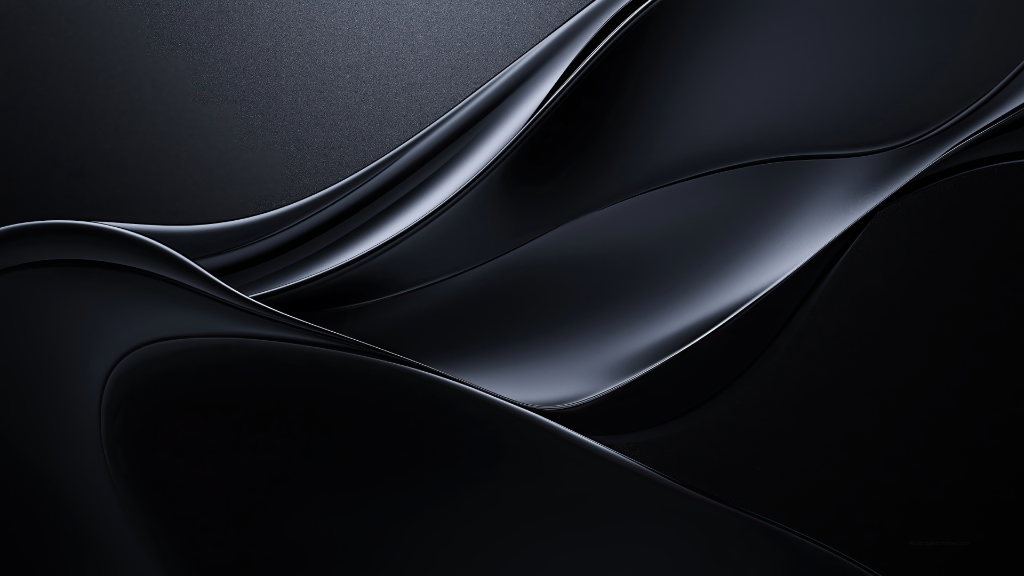
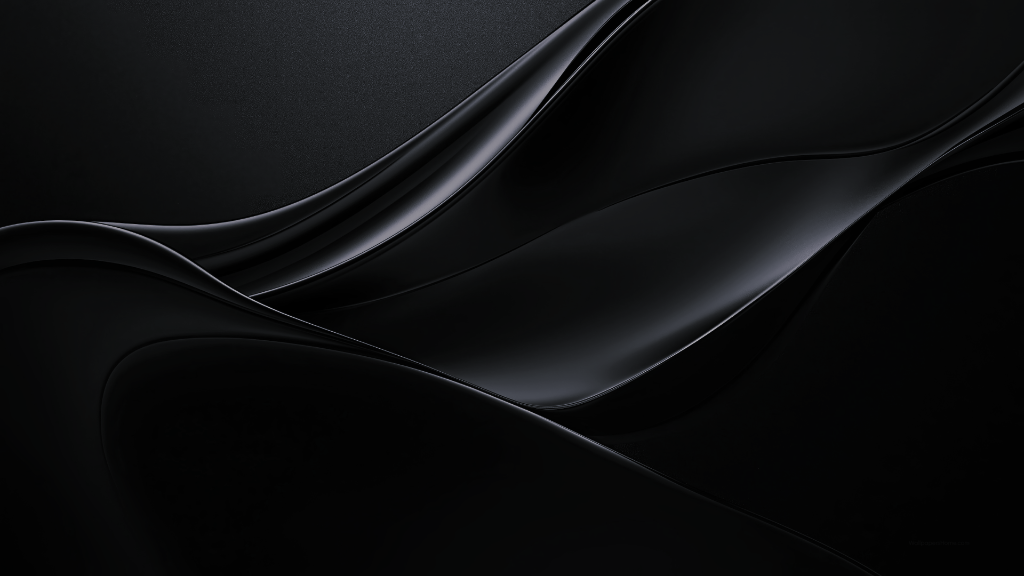
Add files via upload

diff --git a/style.css b/style.css
@@ -268,7 +268,7 @@ main.container {
 
 .movie-poster {
     width: 100%;
-    height: 380px;
+    height: 420px;
     background: transparent;
     display: flex;
     align-items: center;
@@ -413,23 +413,35 @@ main.container {
 }
 
 .movie-info {
-    padding: 30px;
-    background: transparent;
+    position: absolute;
+    bottom: 0;
+    left: 0;
+    width: 100%;
+    background: linear-gradient(to top, rgba(5, 5, 8, 0.92) 0%, rgba(5, 5, 8, 0.55) 65%, transparent 100%);
+    backdrop-filter: blur(14px) saturate(180%);
+    -webkit-backdrop-filter: blur(14px) saturate(180%);
+    border-top: 1px solid rgba(255, 255, 255, 0.08);
+    padding: 16px 20px;
+    z-index: 2;
 }
 
 .movie-title {
     font-family: var(--font-heading);
-    font-size: 1.5rem;
+    font-size: 1.3rem;
     color: #ffffff;
-    margin-bottom: 8px;
+    margin-bottom: 4px;
     font-weight: 600;
-    letter-spacing: -0.5px;
+    letter-spacing: -0.4px;
+    line-height: 1.25;
+    text-shadow: 0 2px 4px rgba(0, 0, 0, 0.7);
 }
 
 .release-date {
-    color: var(--text-secondary);
-    font-size: 0.9rem;
+    color: #e0e0e0;
+    font-size: 0.85rem;
     font-weight: 400;
+    opacity: 0.9;
+    text-shadow: 0 1px 3px rgba(0, 0, 0, 0.7);
 }
 
 /* Trailers Grid */
@@ -624,34 +636,6 @@ footer p {
     .movies-grid {
         grid-template-columns: repeat(auto-fill, minmax(250px, 1fr));
         gap: 25px;
-    }
-
-    .movie-poster {
-        height: 420px; /* Full card height */
-    }
-
-    .movie-info {
-        position: absolute;
-        bottom: 0;
-        left: 0;
-        width: 100%;
-        background: rgba(0, 0, 0, 0.3); /* Transparent overlay */
-        backdrop-filter: blur(12px) saturate(180%);
-        -webkit-backdrop-filter: blur(12px) saturate(180%);
-        padding: 15px 20px;
-        z-index: 2;
-    }
-
-    .movie-title {
-        font-size: 1.3rem;
-        margin-bottom: 2px;
-    }
-
-    .release-date {
-        font-size: 0.9rem;
-        color: #fff; /* Maximum visibility */
-        opacity: 1;
-        text-shadow: 0 1px 2px rgba(0, 0, 0, 0.5); /* extra contrast on light posters */
     }
 
     main {
